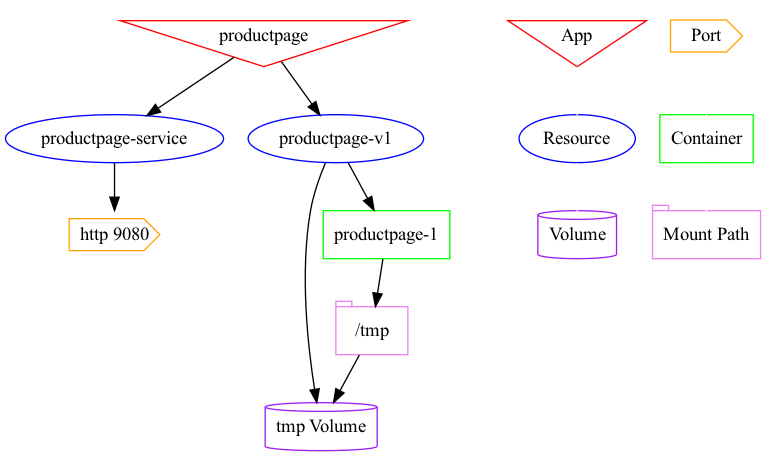
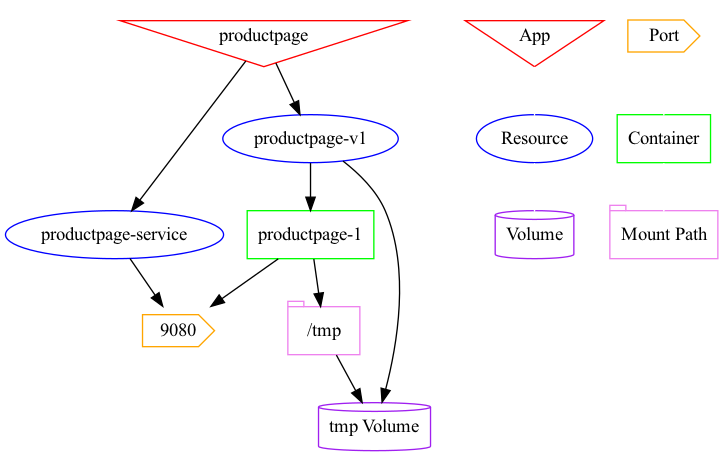
added container ports -> service

diff --git a/vubernetes.py b/vubernetes.py
@@ -13,6 +13,7 @@ import yaml
 import networkx as nx
 
 # Global Variables -----------------------------------------------
+PORT = {'color': 'orange', 'shape':'cds'}
 
 # Class Declarations ---------------------------------------------
 class Vubernetes():
@@ -75,9 +76,13 @@ class Vubernetes():
                 G.add_nodes_from([(resourceNodeName, {'color':'blue'})])
                 G.add_edge(app.name, resourceNodeName)
                 if resource.kind == "Service":
-                    portNodeName = f"{resource.spec['ports'][0]['name']} {resource.spec['ports'][0]['port']}"
-                    G.add_nodes_from([(portNodeName, {'color': 'orange', 'shape':'cds'})])
+                    try:
+                        portNodeName = f"{resource.spec['ports'][0]['port']}"
+                    except KeyError:
+                        portNodeName = f"{resource.spec['ports'][0]['port']}"
+                    G.add_nodes_from([(portNodeName, PORT)])
                     G.add_edge(resourceNodeName, portNodeName)
+
                 if resource.kind == "Deployment":
                     try: 
                         volumes = resource.spec['template']['spec']['volumes']
@@ -101,11 +106,19 @@ class Vubernetes():
                                 G.add_edge(volumeMounts[vm]["mountPath"], f"{volumeMounts[vm]['name']} Volume" )
                         except KeyError:
                             pass
+                        try:
+                            containerPorts = containers[c]["ports"]
+                            for cp in range(0, len(containerPorts)):
+                                containerPortName = f"{containerPorts[cp]['containerPort']}"
+                                G.add_nodes_from([(containerPortName, PORT)])
+                                G.add_edge(containerNodeName, containerPortName)
+                        except KeyError:
+                            pass
             # Create legend
             G.add_nodes_from([
                 ("App", {'color':'red', 'shape': 'invtriangle'}), 
                 ("Resource", {'color':'blue'}), 
-                ("Port", {'color': 'orange', 'shape':'cds'}),
+                ("Port", PORT),
                 ("Volume", {'color': 'purple', 'shape':'cylinder'}),
                 ("Container", {'color': 'green', 'shape':'box'}),
                 ("Mount Path", {'color': 'violet', 'shape':'tab'})
@@ -170,7 +183,11 @@ class Definition():
         # Get the app associated with the definition
         if self.kind in ["Deployment", "Service"]:
             self.spec                       = self.jsonDef["spec"]
-            self.appName                    = self.metadata["labels"]["app"]
+            try:
+                self.appName                    = self.metadata["labels"]["app"]
+            except KeyError:
+                self.appName                    = self.spec["selector"]["app"]
+            print(self.appName)
             if self.appManager.checkIfAppExists(self.appName) == False:
                 self.appManager.createApp(self.appName)
             app = self.appManager.getAppByName(self.appName)
